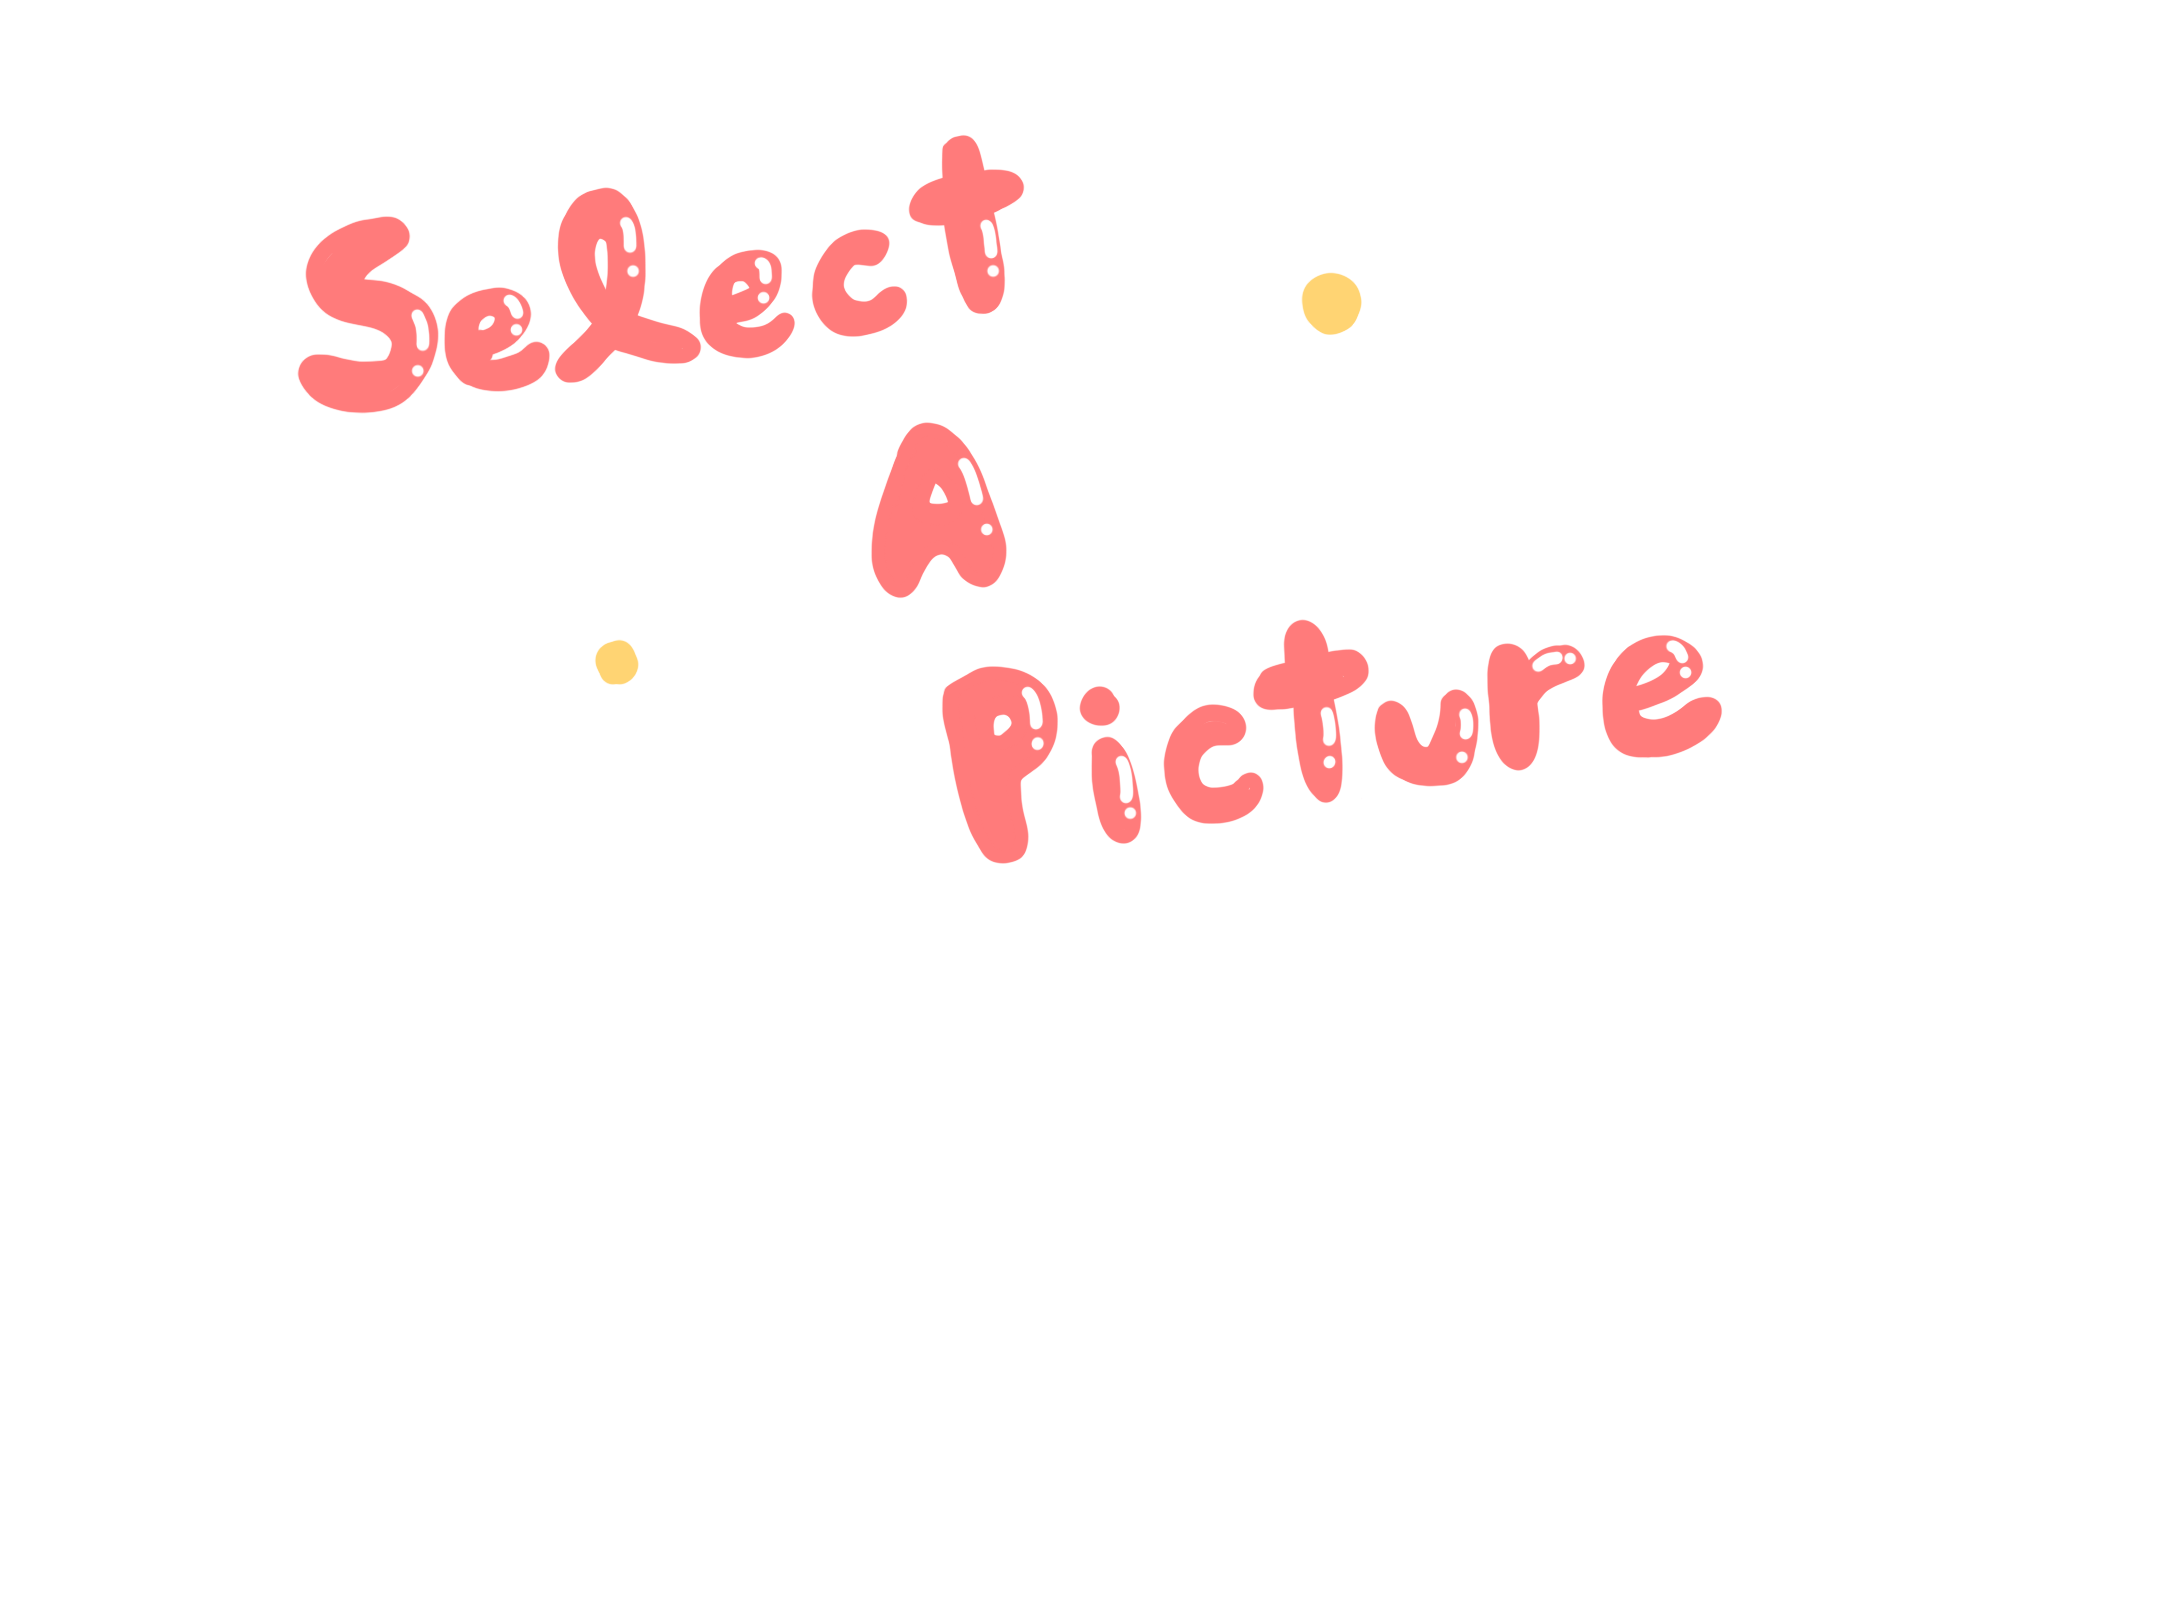
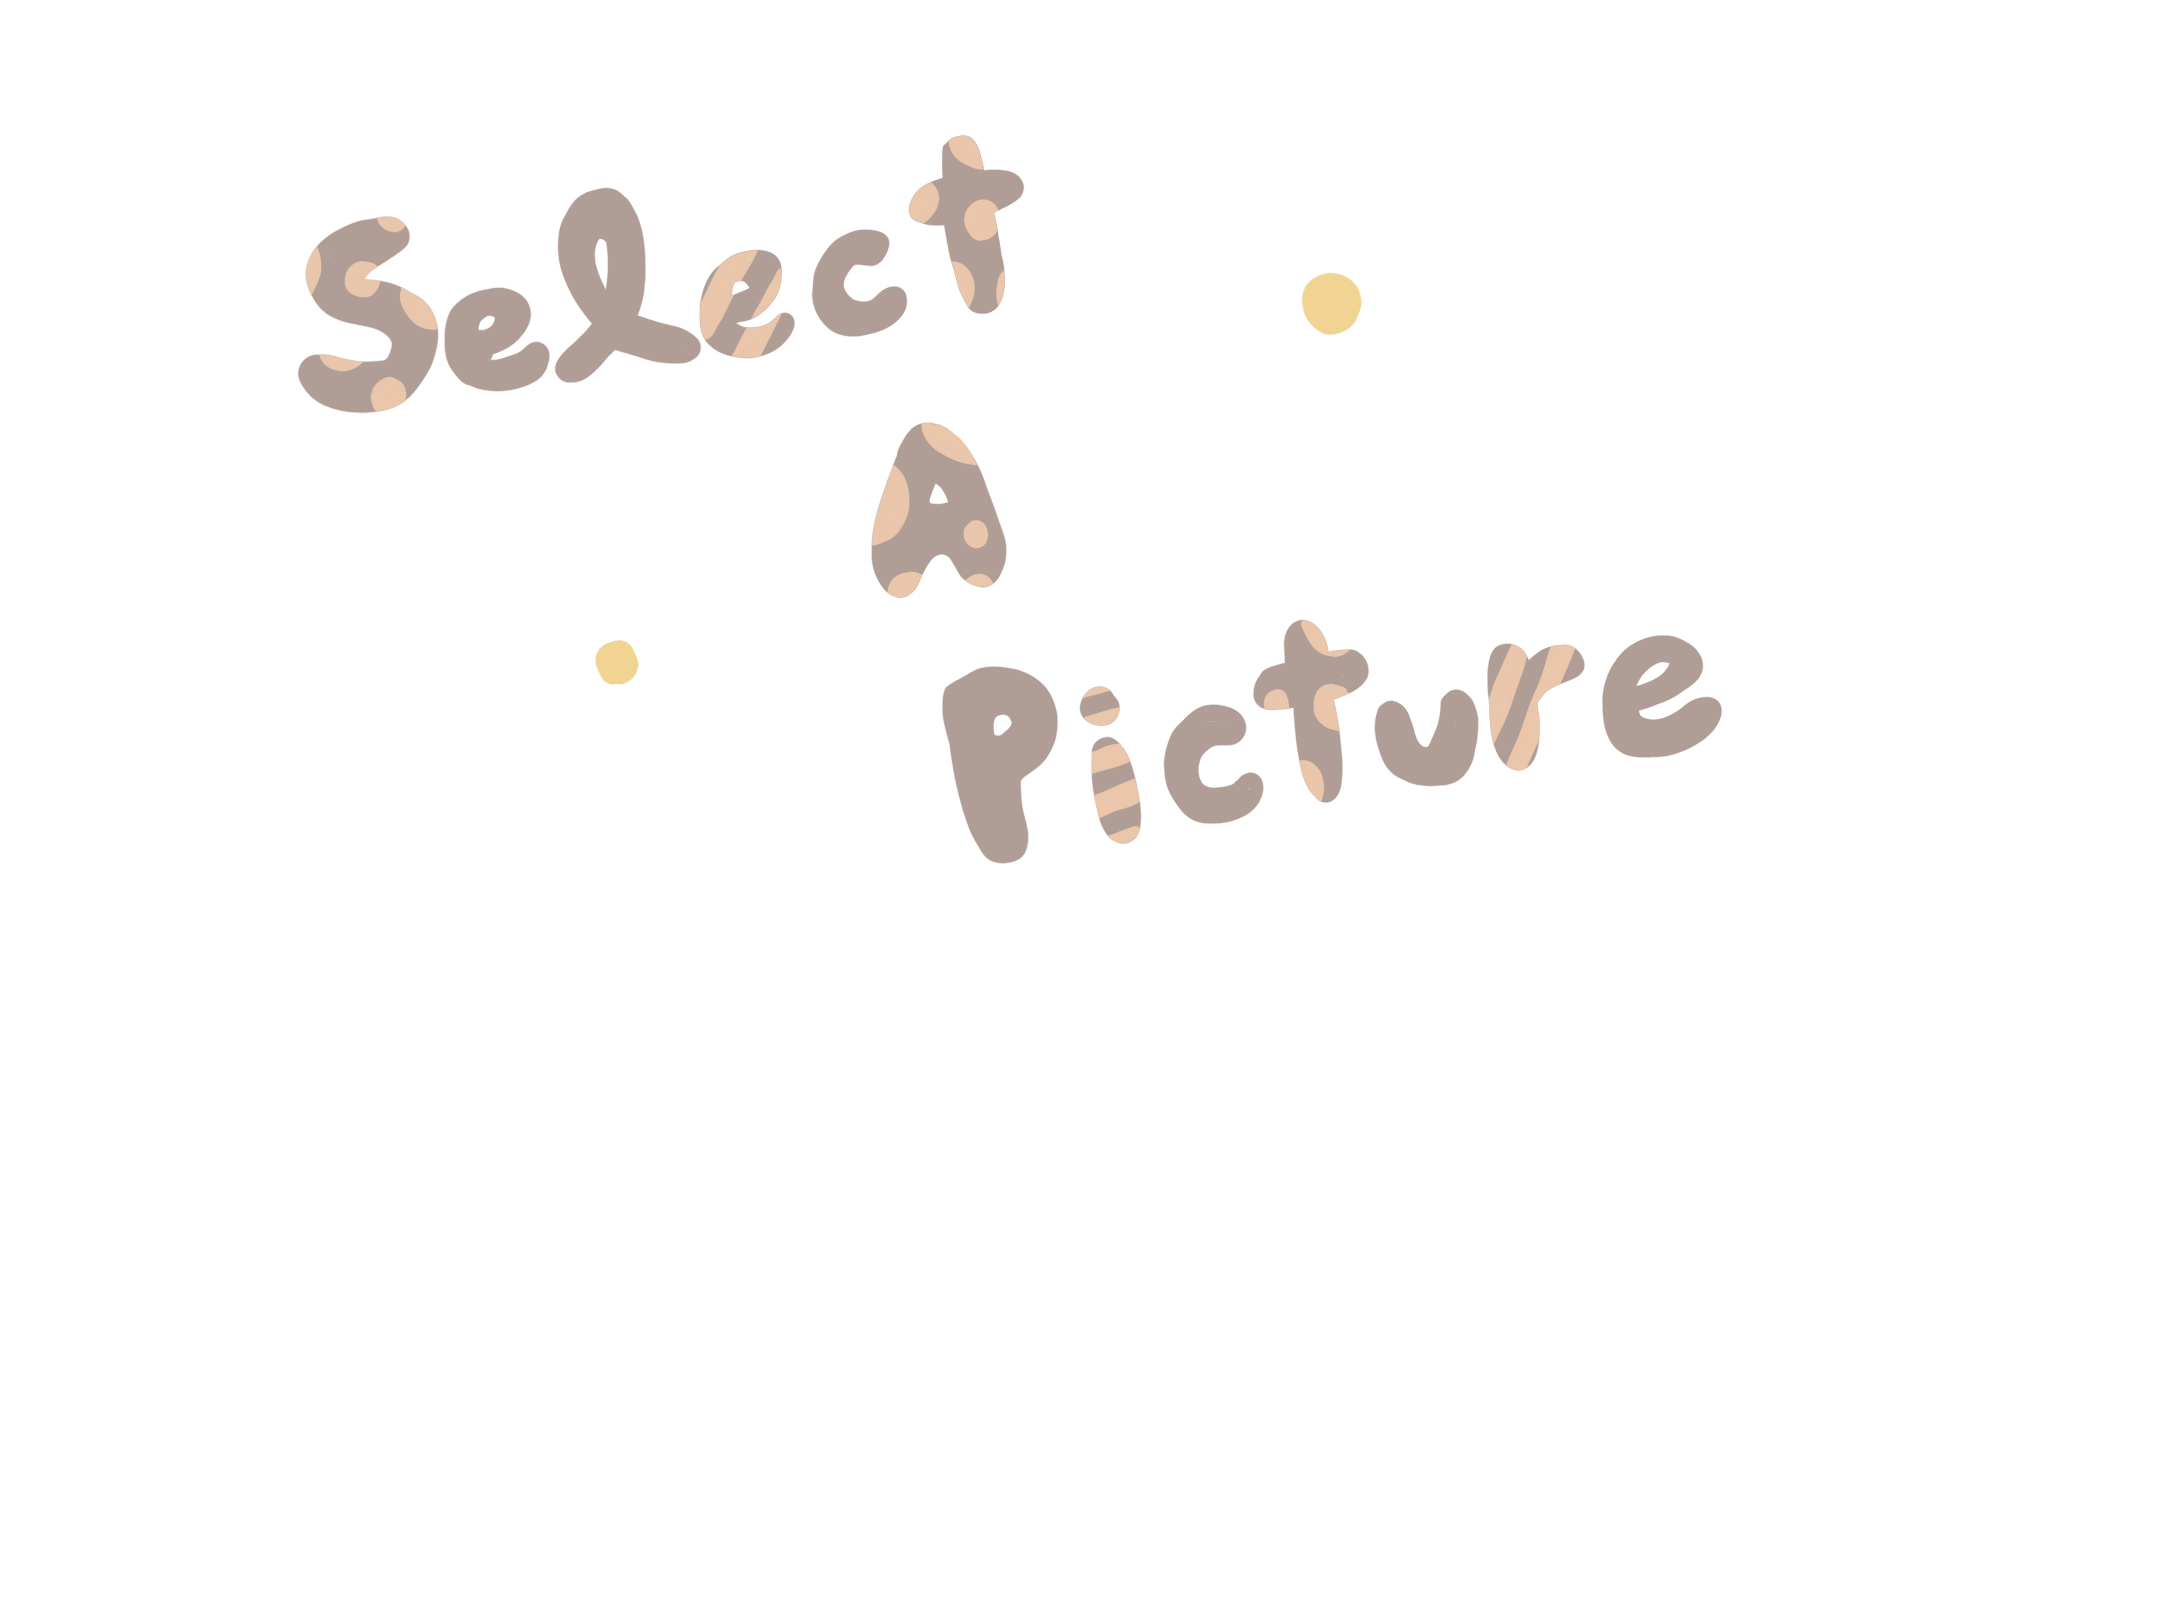
bg commit

diff --git a/src/components/RemoveBG/RemoveBG.js b/src/components/RemoveBG/RemoveBG.js
@@ -9,7 +9,6 @@ import 'bootstrap/dist/css/bootstrap.min.css';
 
 export default function RemoveBG() {
 
-
     const status = useSelector((state) => state.status.bgRemoved);
     const dispatch = useDispatch();
 
@@ -28,7 +27,6 @@ export default function RemoveBG() {
         dispatch(setActionStatus(false));
 
         const resizedImage = await loadImage(image, {
-        // resize before sending to PhotoRoom for performance
         maxWidth: 1500,
         maxHeight: 1500,
         canvas: true
@@ -52,7 +50,6 @@ export default function RemoveBG() {
         else{
             dispatch(setActionStatus(false));
         }
-        // https://developers.google.com/web/ilt/pwa/working-with-the-fetch-api#example_fetching_images
         const outputBlob = await response.blob();
 
         b = URL.createObjectURL(outputBlob);
@@ -74,11 +71,11 @@ export default function RemoveBG() {
     return (
         <div className="main">
             <Row>
-                <div className="App-header"></div>
+                <img src="https://img.onl/9pKe5f"/>          
             </Row>
             <div className="input">
                 <input type="file" onChange={imgUpload} accept=".jpg, .png" />
-                <Button onClick={uploadImage} size="sm" variant="link">點擊去背</Button>
+                    <Button onClick={uploadImage} size="sm" variant="link">點擊去背</Button>
             </div>
             <Col>
                 {status ? <div className="image">

diff --git a/src/components/RemoveBG/RemoveBG.css b/src/components/RemoveBG/RemoveBG.css
@@ -1,8 +1,8 @@
 .App-header {
-    background-image:url("head.png");
+    background-image:url("Remove.gif");
     background-repeat:no-repeat;
     background-position:center;
-    background-color: rgb(253, 167, 196);
+    background-color: #ffdeb3;
     width:150vw;
     height:10vw;
     display: flex;
@@ -12,18 +12,28 @@
     justify-content: center;
     font-size: calc(25px + 2vmin);
     font-weight: bold;
-    color:rgb(241, 205, 232);
+    color:#ffdeb3;
     text-shadow: 0 0 15px rgb(216, 51, 51);
     
   }
+  
+  img{
+    height: auto;
+    max-width: 100%;
+  }
 
 .input {
-    background-color: rgb(253, 167, 196);
+    background-color: rgb(224, 207, 179);
     border-radius: 5vh;
+    /* width:100vw; */
     box-shadow: 0 0 15px rgba(0, 0, 0, 0.5);
-    display: inline-flex;
-    margin: 2vh auto;
+    margin: 3vh auto;
     padding: 3vh;
+    width: 60vw
+}
+
+.btn{
+    position: top right;
 }
 
 .image {

diff --git a/public/index.html b/public/index.html
@@ -31,7 +31,7 @@
     -->
     <title>React Redux App</title>
   </head>
-  <body style="background-color:rgb(247, 212, 232);">
+  <body style="background-color:#efeee9;">
     <noscript>You need to enable JavaScript to run this app.</noscript>
     <div id="root"></div>
     <!--
